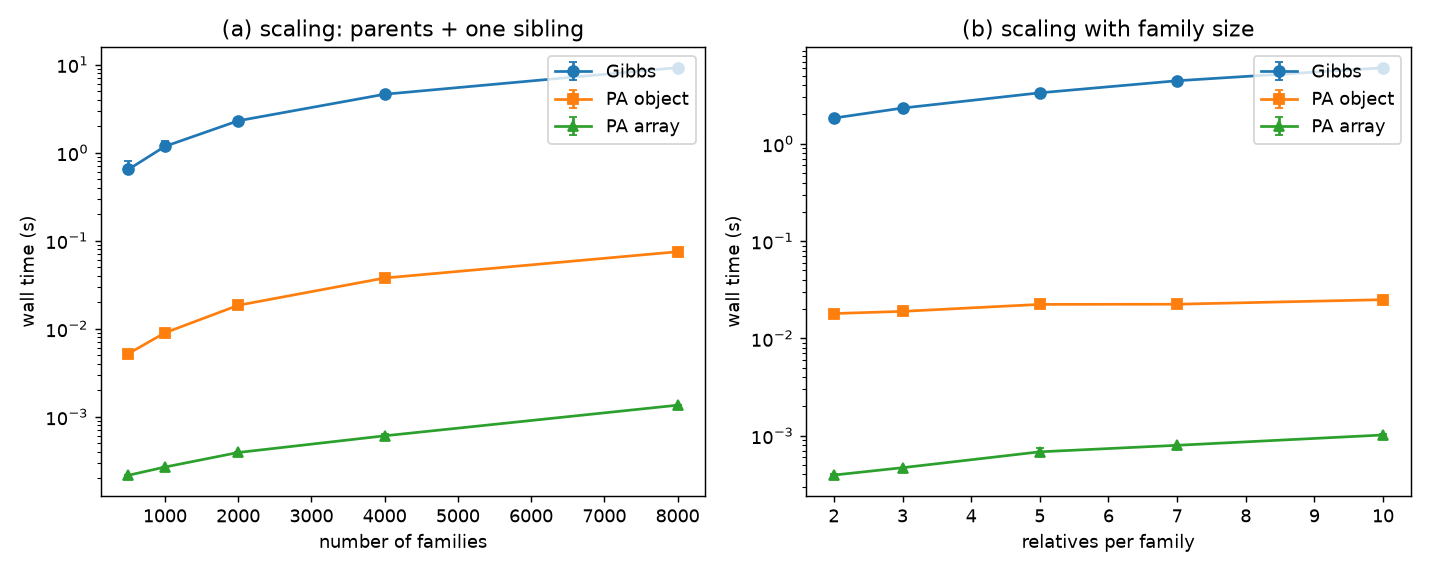
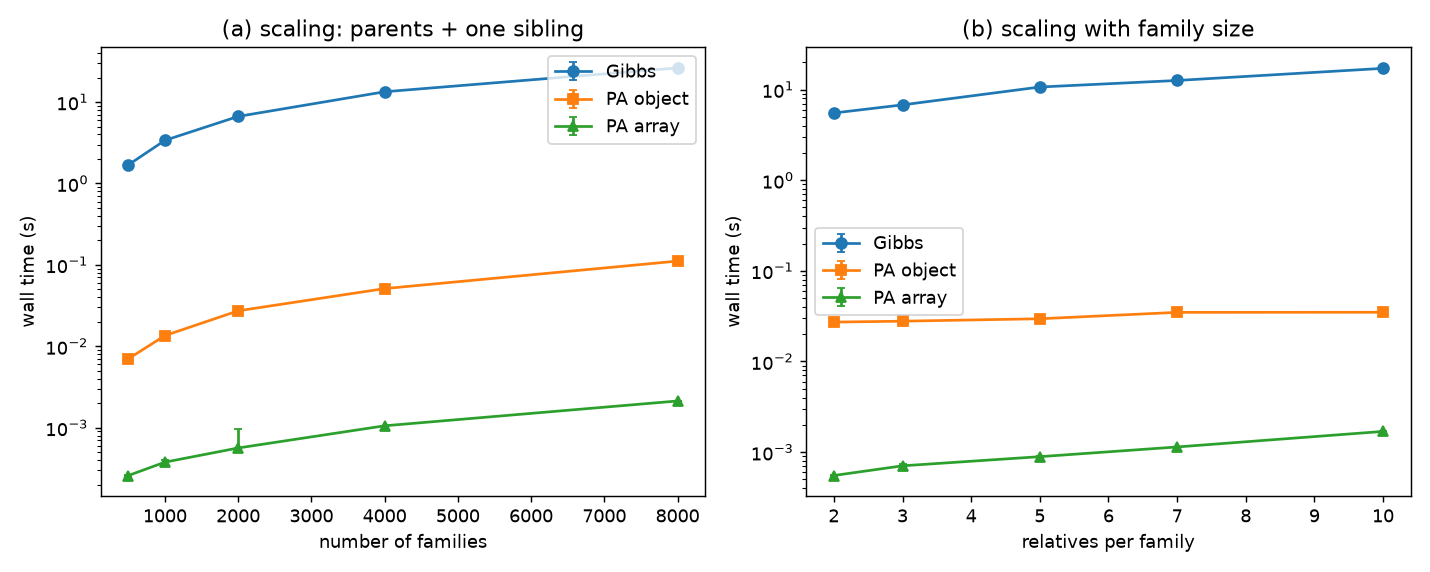
bench: re-baseline the timing claims at four threads, with load provenance
The 315-510x object-path speed-up came from a 10-thread run on hardware and a
stack this project no longer uses (Python 3.13.5 / Numba 0.61.0). It does not
reproduce here at any thread count, so it was an unfalsifiable number sitting in
seven documents. Four threads is the operating point this project runs at, so
the timing section is re-derived there and labelled with it.

Measured on Python 3.14.6 / NumPy 2.4.6 / SciPy 1.18.0 / Numba 0.66.0, Apple
M2 Pro (10 cores, arm64), 4 Numba threads:

  object speed-up over Gibbs   203-492x   (was 315-510x at 10 threads)
  PA object path               57k-78k families/s
  PA array path                1.2-3.8 M families/s, 21-52x over the object path
  Gibbs                        117-363 families/s

The ratio is not a thread-count-free constant, and the docs now say so. Gibbs is
the parallel engine and the PA object path is largely serial, so fewer threads
inflate the speed-up: at four threads Gibbs loses far more than PA does. A
speed-up quoted without its thread count is not interpretable, which is how a
4-thread 203-492x can look deceptively like the 10-thread 315-510x it replaces.

Updated: RESULTS.md section 2 (both tables, headline bullet), README.md,
docs/ROADMAP.md, docs/algorithm.md, docs/estimation.md, index.html.
docs/EXTERNAL_REVIEW.md keeps the old figures deliberately -- it carries a
"historical snapshot, superseded" banner and records what a reviewer saw at
commit 673bb99.
[…]

diff --git a/index.html b/index.html
@@ -278,7 +278,7 @@
       <div class="card">
         <div class="k">Scale</div>
         <h3>Biobank-ready performance</h3>
-        <p>Numba-JIT, <code>prange</code>-parallel kernels; families grouped by structure; streaming batch-means standard errors at O(F) memory; optional float32 bounds. <code>gibbs_estimate_batched</code> is imported from <code>ltpred.gibbs</code>. The ordinary PA engine ran ~150k–310k families/second on the object path, which includes bounds assembly and grouping; the array path reached 1.6–8.6 M families/s on already-aligned, repeatedly reused inputs — a hot-kernel rate, not end-to-end preparation.</p>
+        <p>Numba-JIT, <code>prange</code>-parallel kernels; families grouped by structure; streaming batch-means standard errors at O(F) memory; optional float32 bounds. <code>gibbs_estimate_batched</code> is imported from <code>ltpred.gibbs</code>. At four threads the ordinary PA engine ran ~57k–78k families/second on the object path, which includes bounds assembly and grouping; the array path reached 1.2–3.8 M families/s on already-aligned, repeatedly reused inputs — a hot-kernel rate, not end-to-end preparation.</p>
         <div class="fns"><span class="fn">pa_estimate_batched</span><span class="fn">gibbs_estimate_batched</span></div>
       </div>
       <div class="card">
@@ -348,7 +348,7 @@
     <div class="sec-head"><span class="n">04</span><h2>What's been validated</h2></div>
     <div class="stats">
       <div class="stat"><div class="v">≥ 0.997</div><div class="l">correlation of PA and Gibbs posterior means across tested ordinary-PA cells</div></div>
-      <div class="stat"><div class="v">315–510<small>×</small></div><div class="l">ordinary-PA speed-up over Gibbs on matched bounds</div></div>
+      <div class="stat"><div class="v">203–492<small>×</small></div><div class="l">ordinary-PA speed-up over Gibbs on matched bounds, at four threads</div></div>
       <div class="stat"><div class="v">1.1–2.5<small>×</small></div><div class="l">squared-correlation effective-N proxy over case/control, across tested cells</div></div>
       <div class="stat"><div class="v">27</div><div class="l">simulation benchmarks, truth known in each</div></div>
     </div>
@@ -450,7 +450,7 @@
       <div class="items">
         <div class="item"><span class="status s-plan">planned</span><div class="body"><strong>Sparse, streamed covariance.</strong> A chunked driver for single giant pedigrees and biobank runs that can't hold every family in memory at once.</div></div>
         <div class="item"><span class="status s-plan">planned</span><div class="body"><strong>End-to-end GWAS example.</strong> Real-LD HAPNEST genotypes → liability score → mixed-model GWAS, with covariate / residualization helpers.</div></div>
-        <div class="item"><span class="status s-plan">planned</span><div class="body"><strong>A multi-trait PA approximation.</strong> Multi-trait estimation is Gibbs-only today, so the deterministic engine's 315–510× advantage stops at one trait. A multi-trait sequential-moment sweep would carry it across — if it can be made accurate enough to be worth having.</div></div>
+        <div class="item"><span class="status s-plan">planned</span><div class="body"><strong>A multi-trait PA approximation.</strong> Multi-trait estimation is Gibbs-only today, so the deterministic engine's 203–492× advantage stops at one trait. A multi-trait sequential-moment sweep would carry it across — if it can be made accurate enough to be worth having.</div></div>
         <div class="item"><span class="status s-prog">in progress</span><div class="body"><strong>Packaging &amp; a docs site.</strong> The task-focused <strong>MkDocs + mkdocstrings</strong> source now has a real root page and builds with its auto-generated API reference; CI runs the tests and lint gate on Python 3.9 / 3.12. The sdist and wheel build cleanly and pass <code>twine check</code>, and a PyPI <strong>Trusted-Publishing</strong> workflow (<code>publish.yml</code>, documented in <code>RELEASING.md</code>) uploads on a tagged GitHub Release with no stored API token. Remaining: the one-time PyPI trusted-publisher registration, the first tagged upload, and deploying the site.</div></div>
       </div>
     </div>

diff --git a/benchmarks/run_benchmark.py b/benchmarks/run_benchmark.py
@@ -165,6 +165,18 @@ def _machine_profile():
     }
 
 
+def _load_average():
+    # A timing benchmark taken on a busy machine is not comparable with one
+    # taken on an idle machine, and nothing else in the record reveals that.
+    # RESULTS.md's protocol asks for no concurrent load; this makes a run that
+    # violated it self-identifying rather than silently slow.
+    try:
+        one, five, fifteen = os.getloadavg()
+    except (OSError, AttributeError):
+        return None
+    return {"1min": round(one, 2), "5min": round(five, 2), "15min": round(fifteen, 2)}
+
+
 def _numba_runtime():
     # `thread_settings` records what was *requested*; this records what Numba
     # resolved to, which is what the timing benchmarks actually depend on.
@@ -263,12 +275,14 @@ def main():
     stdout_path = log_dir / f"{run_id}.stdout.log"
     stderr_path = log_dir / f"{run_id}.stderr.log"
 
+    load_before = _load_average()
     t0 = time.perf_counter()
     with stdout_path.open("wb") as stdout_fh, stderr_path.open("wb") as stderr_fh:
         proc = subprocess.run(
             command, cwd=ROOT, check=False, stdout=stdout_fh, stderr=stderr_fh)
     elapsed = time.perf_counter() - t0
     finished = datetime.now(timezone.utc)
+    load_after = _load_average()
     after = _artifact_state()
 
     # Preserve the familiar console behavior after the child exits while keeping
@@ -294,6 +308,7 @@ def main():
             "platform": platform.platform(),
             "machine": _machine_profile(),
             "numba_runtime": _numba_runtime(),
+            "load_average": {"before": load_before, "after": load_after},
             "packages": _package_versions(),
             "thread_settings": {
                 name: os.environ.get(name)

diff --git a/benchmarks/RESULTS.md b/benchmarks/RESULTS.md
@@ -53,8 +53,11 @@ observed GWAS noncentrality ratio, so the two magnitudes are not interchangeable
   grid (five seeds per cell), mean corr(PA, Gibbs) is 0.9977–0.9999. The
   stressful-pedigree benchmark remains
   at least 0.9984. PA and Gibbs also give indistinguishable downstream GWAS
-  results. In the isolated 10-thread timing run, the PA object path is
-  **315–510× faster** than grouped Gibbs across the tested sizes and pedigrees.
+  results. In the 4-thread timing run, the PA object path is **203–492× faster**
+  than grouped Gibbs across the tested sizes and pedigrees. The ratio is not
+  thread-count-free: Gibbs is the parallel engine while the PA object path is
+  largely serial, so fewer threads inflate the speed-up. Quote it with its
+  thread count or not at all.
 - **Classic LT-FH improves genotype-GWAS signal without average null inflation.**
   Across three genotype/effect/cohort replicates, the same classic LT-FH model
   inferred by either PA or Gibbs delivers a causal-SNP NCP ratio of
@@ -102,22 +105,30 @@ replicates as 2.11 ± 0.15× — so treat their ordering as descriptive.
 
 ## 2. Controlled runtime scaling (`bench_scaling.py`)
 
-Five warmed timings per point, reported as medians; Python 3.13.5, Numba 0.61.0,
-10 Numba threads, h²=0.5, K=0.05, and 25,000 Gibbs draws. No other benchmark ran
-concurrently.
+Five warmed timings per point, reported as medians; Python 3.14.6, NumPy 2.4.6,
+SciPy 1.18.0, Numba 0.66.0, **4 Numba threads**, on an Apple M2 Pro (10 cores,
+arm64), h²=0.5, K=0.05, and 25,000 Gibbs draws. No other benchmark ran
+concurrently, but the machine was not otherwise idle: system processes held
+1-minute load average near 7–11 throughout. `benchmarks/run_manifest.jsonl`
+records the machine, resolved thread count and load for every run, so a timing
+taken under load is identifiable rather than silently slow.
+
+These supersede an earlier 10-thread reference (315–510×) taken on different
+hardware and a different stack, which does not reproduce on this machine at any
+thread count. Four threads is the operating point this project now baselines on.
 
 ### Scaling with number of families (parents + one sibling)
 
 | families | Gibbs families/s | PA object families/s | PA array families/s | object speed-up |
 |---:|---:|---:|---:|---:|
-| 500 | 654 | 224,027 | 2.11 M | 343× |
-| 1,000 | 606 | 211,930 | 3.18 M | 349× |
-| 2,000 | 626 | 261,006 | 1.55 M | 417× |
-| 4,000 | 677 | 240,743 | 2.74 M | 355× |
-| 8,000 | 724 | 280,243 | 8.63 M | 387× |
+| 500 | 296 | 71,264 | 1.93 M | 241× |
+| 1,000 | 295 | 73,863 | 2.65 M | 250× |
+| 2,000 | 300 | 73,319 | 3.55 M | 244× |
+| 4,000 | 299 | 78,229 | 3.79 M | 261× |
+| 8,000 | 305 | 71,878 | 3.76 M | 236× |
 
 The object path includes `Family`/`Member` bounds assembly and grouping. The
-array path receives already aligned, repeatedly reused arrays; its 1.6–8.6
+array path receives already aligned, repeatedly reused arrays; its 1.2–3.8
 million families/s is therefore a hot-kernel measurement, not end-to-end input
 preparation. Its very short calls also make cache and scheduler effects visible,
 so use the CSV IQRs rather than interpreting the non-monotone point rates.
@@ -126,16 +137,18 @@ so use the CSV IQRs rather than interpreting the non-monotone point rates.
 
 | relatives | structure | Gibbs time | PA object time | PA array time | object speed-up |
 |---:|---|---:|---:|---:|---:|
-| 2 | parents | 2.03 s | 0.0064 s | 0.00028 s | 315× |
-| 3 | + sibling | 2.67 s | 0.0073 s | 0.00032 s | 367× |
-| 5 | + two grandparents | 3.66 s | 0.0101 s | 0.00054 s | 363× |
-| 7 | extended | 5.05 s | 0.0102 s | 0.00058 s | 495× |
-| 10 | extended + aunts | 6.73 s | 0.0132 s | 0.00090 s | 510× |
+| 2 | parents | 5.52 s | 0.0272 s | 0.00055 s | 203× |
+| 3 | + sibling | 6.78 s | 0.0278 s | 0.00071 s | 244× |
+| 5 | + two grandparents | 10.68 s | 0.0296 s | 0.00089 s | 361× |
+| 7 | extended | 12.61 s | 0.0348 s | 0.00114 s | 362× |
+| 10 | extended + aunts | 17.16 s | 0.0349 s | 0.00169 s | 492× |
 
 The small PA times are not strictly monotone; five repeats quantify timing
-variation but do not abolish operating-system noise. The defensible claim on
-this machine is the observed **315–510×** object-path speed-up, not a universal
-hardware-independent constant.
+variation but do not abolish operating-system noise, and this run carried
+background load. The defensible claim is the observed **203–492×** object-path
+speed-up *at four threads on this machine* — not a universal hardware-independent
+constant, and not transferable to another thread count, since raising the thread
+count speeds Gibbs up far more than the largely serial PA object path.
 
 This is the only benchmark used for performance claims. It warms all paths,
 records five timings per point with median/IQR, uses `perf_counter`, records the

diff --git a/docs/estimation.md b/docs/estimation.md
@@ -192,7 +192,7 @@ test a different, no-mixture observation model
 | kind | Monte-Carlo (truncated-MVN sampler) | deterministic sequential-selection approximation |
 | error | batch-means MC SE (`res.se`) | no Monte-Carlo error, but a non-zero sequential moment-approximation error; gives `Var(G_i \| family)` in `res.var` |
 | exactness | exact in the limit of infinite draws | exact for 1 truncation, close approx for families |
-| speed | ~300–990 families/s (10 threads) | ~152k–310k families/s — **315–510× faster** across tested sizes/structures |
+| speed | ~117–363 families/s (4 threads) | ~57k–78k families/s — **203–492× faster** across tested sizes/structures, at the same 4 threads |
 | censoring mixture | not implemented | `use_mixture=True` |
 
 The speed and agreement comparisons use ordinary bounds without the censoring
@@ -228,8 +228,8 @@ est, var = estimate_liability_pa_arrays(
 ```
 
 This runs the covariance construction once and the parallel PA kernel directly —
-6–31× faster than the object path in the current warmed timing grid, at
-1.6–8.6 million already-aligned families/s (and
+21–52× faster than the object path in the current warmed timing grid, at
+1.2–3.8 million already-aligned families/s (and
 `estimate_liability_gibbs_arrays` does the same for Gibbs, returning `(est, se)`).
 Control the thread count with `ltpred.set_num_threads(n)`, and warm up once (the
 first call JIT-compiles) before timing. Different family structures still need

diff --git a/docs/ROADMAP.md b/docs/ROADMAP.md
@@ -15,7 +15,9 @@ provides two alternative inference engines for posterior-mean genetic liability:
 - **Pearson–Aitken (PA)** — a deterministic selection-formula sweep. Its optional
   PA-FGRS extension adds the age-censored-control mixture. On the **no-mixture**
   benchmark grid, PA and Gibbs posterior-mean estimates had correlation ≥0.997,
-  and PA ran 315–510× faster in the controlled 10-thread timing benchmark. The
+  and PA ran 203–492× faster in the controlled 4-thread timing benchmark (the
+  ratio depends on thread count: Gibbs is parallel, the PA object path largely
+  serial). The
   PA-only mixture was not part of that comparison.
 
 Both support classic LT-FH and personalised pinned bounds used as LT-FH++ with
@@ -27,8 +29,8 @@ Multi-trait estimation is Gibbs-only (PA is single-trait).
 **Performance and scale.** The core is Numba-JIT'd and `prange`-parallel, with
 families grouped by structure (canonical form). Streaming batch-means keeps
 standard-error memory at `O(F)`; the array API skips Python objects and, in the
-current warmed timing run, adds another 6–31× over the PA object path while
-processing 1.6–8.6 million already-aligned families/s. A float32 bounds option
+current warmed timing run, adds another 21–52× over the PA object path while
+processing 1.2–3.8 million already-aligned families/s. A float32 bounds option
 halves memory. (The exploration also showed
 why int8-quantising the covariance, ldpred3-style, is the wrong lever here.)
 

diff --git a/README.md b/README.md
@@ -69,7 +69,7 @@ liability-threshold model:
    **Pearson–Aitken** (PA) engine turns the covariance and
    intervals into an estimate of the posterior mean of the proband's genetic (`g`)
    and/or full (`o`) liability. PA has no Monte-Carlo error, but retains sequential
-   approximation error, and ran 315–510× faster in the controlled 10-thread,
+   approximation error, and ran 203–492× faster in the controlled 4-thread,
    **no-mixture** benchmark; PA and Gibbs `genetic` posterior-mean estimates had
    correlation ≥ 0.997 on those benchmarked structures. The PA-FGRS censoring
    mixture is PA-only and was not part of that comparison.

diff --git a/docs/algorithm.md b/docs/algorithm.md
@@ -653,7 +653,7 @@ applied this result sequentially to multifactorial threshold traits
 ([1974, *Biometrics*](https://pubmed.ncbi.nlm.nih.gov/4813384/)). On ltpred's
 separately observed family-member intervals **without the censoring mixture**, PA
 and Gibbs posterior-mean estimates had correlation ≥ 0.997 while PA ran
-315–510× faster in the controlled 10-thread benchmark. The PA-only mixture was
+203–492× faster in the controlled 4-thread benchmark. The PA-only mixture was
 not part of this comparison. Same grouping / `prange` structure as the Gibbs path.
 
 ### Base PA-FGRS: lifetime cases and censored controls
